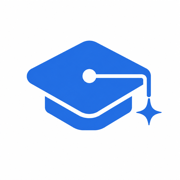
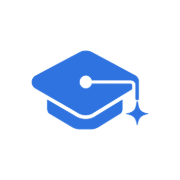
Update site

Changed region(s): [[0.1389, 0.2222, 0.9167, 0.75], [0.3333, 0.6667, 0.3889, 0.6944], [0.2778, 0.6389, 0.3333, 0.6667]]

diff --git a/homepage.jsx b/homepage.jsx
@@ -860,6 +860,23 @@ function LeftRail({ page, loggedIn, onNavigate, onNewChat, onResume, onLogout, o
         <NavItem icon="spark" label="我的记忆" accent active={page === "memory"} onClick={() => go("memory")} />
         <NavItem icon="grid" label="我的内容" active={page === "works"} onClick={() => go("works")} />
         <NavItem icon="basket" label={basketCount > 0 ? `资源篮 · ${basketCount}` : "资源篮"} onClick={() => (loggedIn ? onOpenBasket && onOpenBasket() : onRequireLogin())} />
+        <a
+          href="https://wzrong.me/xiaoboshi/docs/产品设计文档.html"
+          target="_blank"
+          rel="noopener noreferrer"
+          title="产品文档"
+          style={{ width: "100%", boxSizing: "border-box", display: "flex", alignItems: "center", gap: 11, padding: open ? "10px 12px" : "10px 0", justifyContent: open ? "flex-start" : "center", borderRadius: 11, border: "none", cursor: "pointer", fontFamily: "var(--font-zh)", fontSize: 14, fontWeight: 600, background: "transparent", color: "var(--ink-2)", textDecoration: "none", transition: "background .15s" }}
+          onMouseEnter={(e) => (e.currentTarget.style.background = "var(--surface-2)")}
+          onMouseLeave={(e) => (e.currentTarget.style.background = "transparent")}
+        >
+          <span style={{ flexShrink: 0, width: 20, height: 20, display: "grid", placeItems: "center" }}><Icon name="file" size={18} /></span>
+          {open && (
+            <span style={{ whiteSpace: "nowrap", lineHeight: 1, flex: 1, display: "inline-flex", alignItems: "center", gap: 6 }}>
+              产品文档
+              <Icon name="external" size={13} />
+            </span>
+          )}
+        </a>
         {!open && (
           <NavItem icon="chat" label="历史对话" active={page === "history"} onClick={() => (loggedIn ? onNavigate("history") : onRequireLogin())} />
         )}